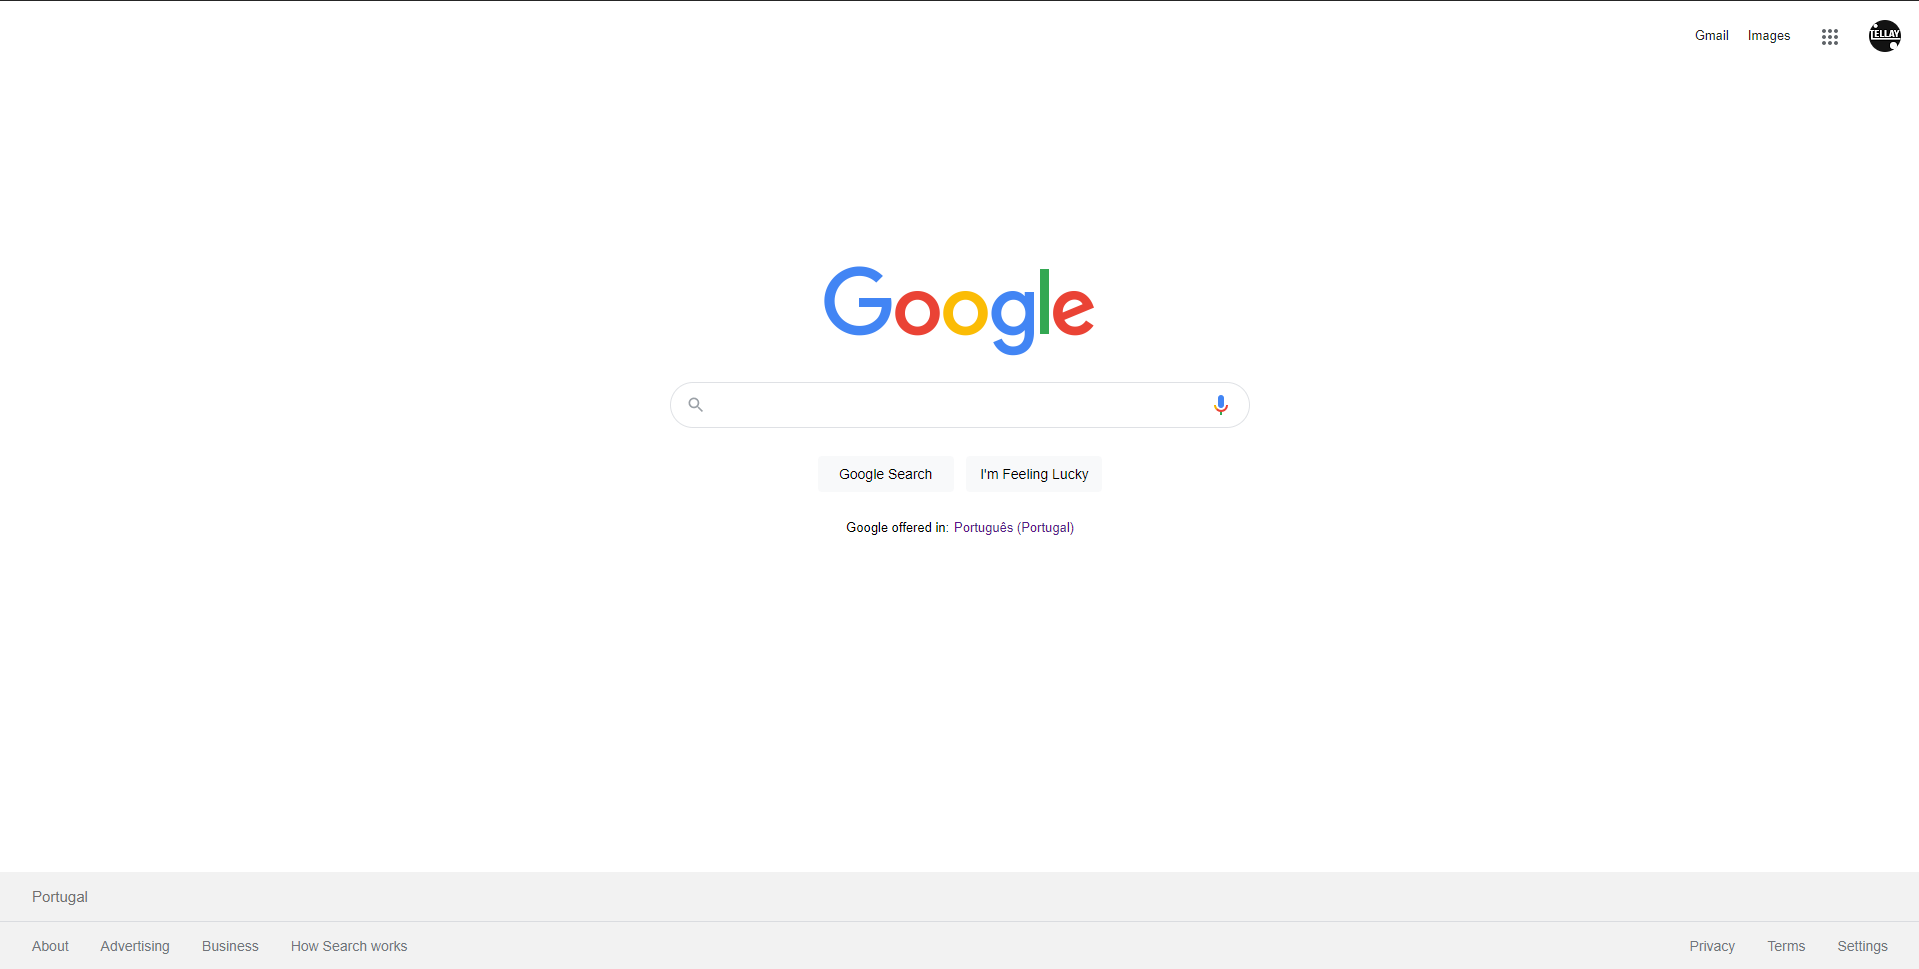
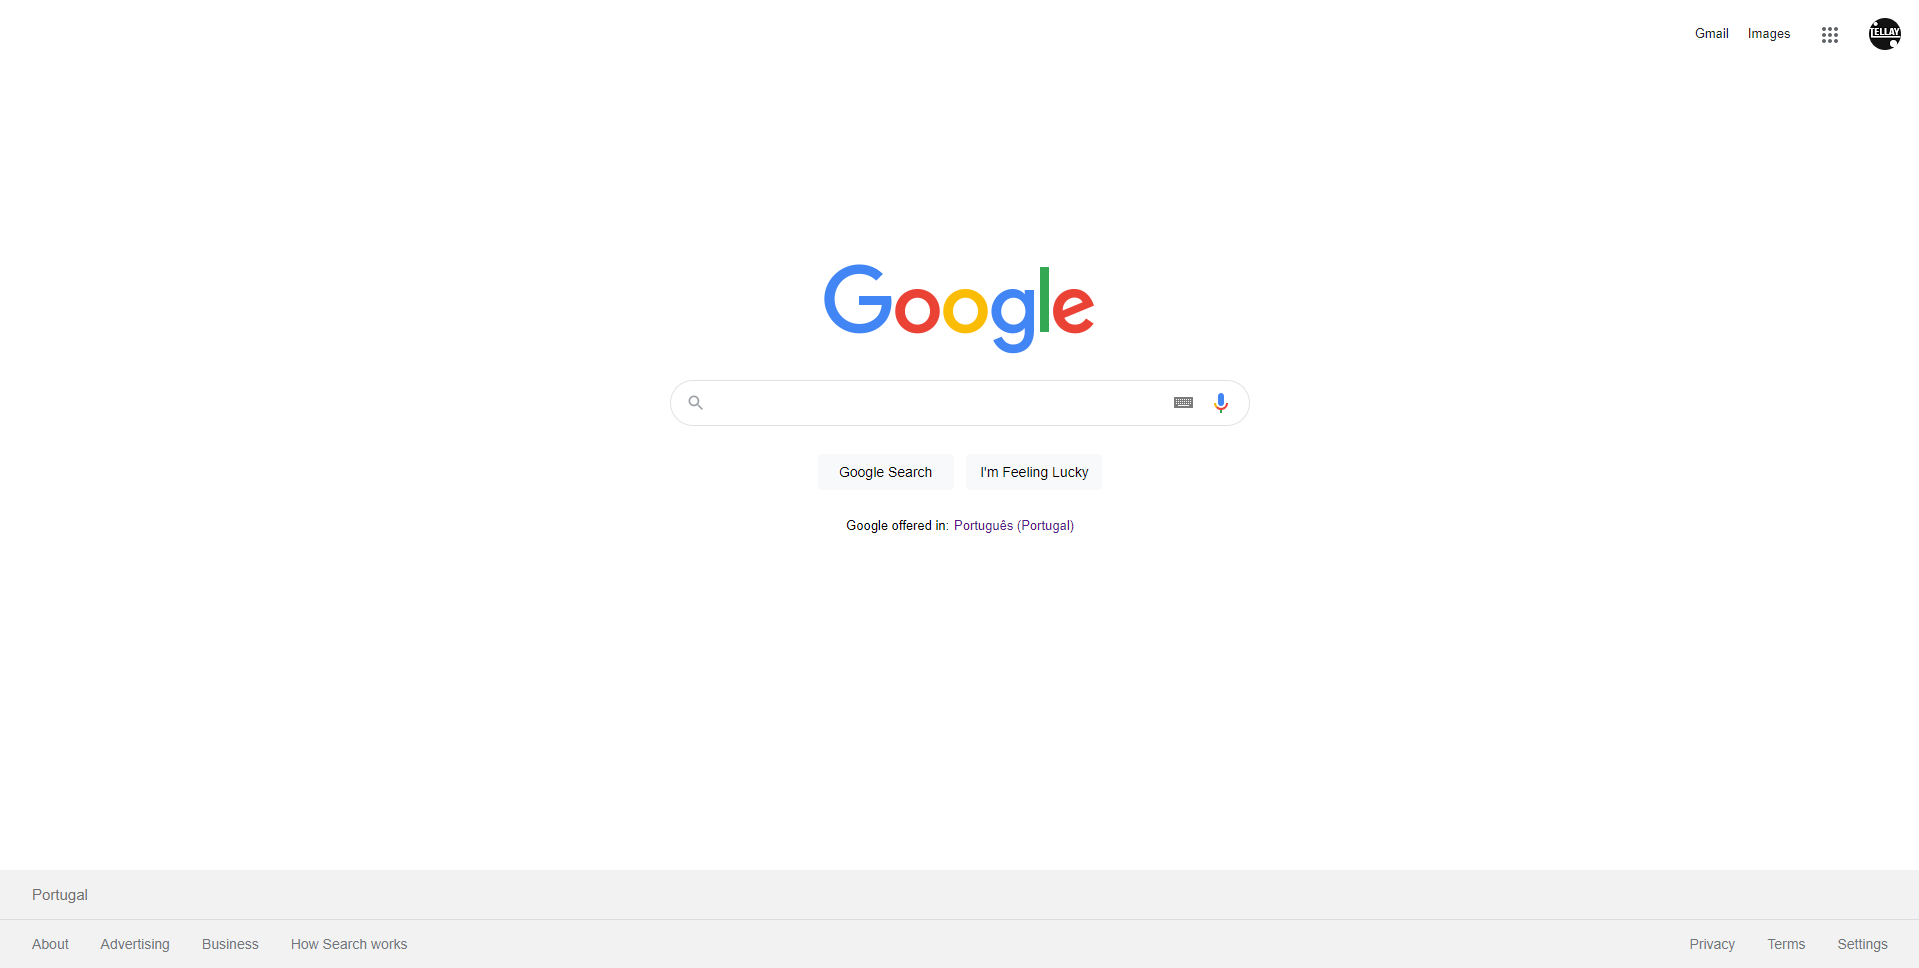
little changes

diff --git a/index.html b/index.html
@@ -36,6 +36,7 @@
             <div class="input-zone">
                 <svg style="position: absolute; width: 20px; height: 20px; margin-left: 1rem; margin-top: 0.0,5rem; fill: #9aa0a6;" focusable="false" xmlns="http://www.w3.org/2000/svg" viewBox="0 0 24 24"><path d="M15.5 14h-.79l-.28-.27A6.471 6.471 0 0 0 16 9.5 6.5 6.5 0 1 0 9.5 16c1.61 0 3.09-.59 4.23-1.57l.27.28v.79l5 4.99L20.49 19l-4.99-5zm-6 0C7.01 14 5 11.99 5 9.5S7.01 5 9.5 5 14 7.01 14 9.5 11.99 14 9.5 14z"></path></svg>
                 <svg style="position: absolute; width: 24px; height: 24px; margin-left: 33.70rem; cursor: pointer;" focusable="false" viewBox="0 0 24 24" xmlns="http://www.w3.org/2000/svg"><path d="m12 15c1.66 0 3-1.31 3-2.97v-7.02c0-1.66-1.34-3.01-3-3.01s-3 1.34-3 3.01v7.02c0 1.66 1.34 2.97 3 2.97z" fill="#4285f4"></path><path d="m11 18.08h2v3.92h-2z" fill="#34a853"></path><path d="m7.05 16.87c-1.27-1.33-2.05-2.83-2.05-4.87h2c0 1.45 0.56 2.42 1.47 3.38v0.32l-1.15 1.18z" fill="#f4b400"></path><path d="m12 16.93a4.97 5.25 0 0 1 -3.54 -1.55l-1.41 1.49c1.26 1.34 3.02 2.13 4.95 2.13 3.87 0 6.99-2.92 6.99-7h-1.99c0 2.92-2.24 4.93-5 4.93z" fill="#ea4335"></path></svg>
+                <span></span>
                 <input type="text">
             </div>
 

diff --git a/styles.scss b/styles.scss
@@ -32,6 +32,7 @@
             text-decoration: none;
             color: #000000de;
             margin-bottom: -0.1rem;
+            outline: none;
         }
 
         &:nth-child(1), &:nth-child(2) {
@@ -85,6 +86,16 @@
         &:hover {
             box-shadow: 0 1px 6px #e0e0e0;
             border-color: rgba(223,225,229,0);
+        }
+        
+        span {
+            position: absolute;
+            background-image: url('https://www.gstatic.com/inputtools/images/tia.png');
+            background-repeat: no-repeat;
+            width: 24px;
+            height: 24px;
+            margin-left: 31.50rem;
+            margin-top: 0.7rem;
         }
     }
 

diff --git a/styles.css b/styles.css
@@ -39,6 +39,7 @@
   text-decoration: none;
   color: #000000de;
   margin-bottom: -0.1rem;
+  outline: none;
 }
 
 #header li:nth-child(1), #header li:nth-child(2) {
@@ -108,6 +109,16 @@
   -webkit-box-shadow: 0 1px 6px #e0e0e0;
           box-shadow: 0 1px 6px #e0e0e0;
   border-color: rgba(223, 225, 229, 0);
+}
+
+#main .input-zone span, main .input-zone span {
+  position: absolute;
+  background-image: url("https://www.gstatic.com/inputtools/images/tia.png");
+  background-repeat: no-repeat;
+  width: 24px;
+  height: 24px;
+  margin-left: 31.50rem;
+  margin-top: 0.7rem;
 }
 
 #main .buttons, main .buttons {

diff --git a/README.md b/README.md
@@ -4,4 +4,4 @@
 
 ----------------------------------
 
-<img src="https://imgur.com/unRLVY3.gif" alt="Google Gif">
+<img src="https://i.imgur.com/oDVMwOJ.gif" alt="Google Gif">
